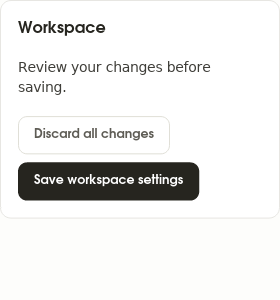
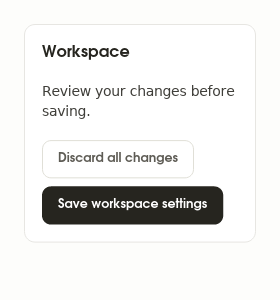
feat(components): provide customizable page insets

diff --git a/examples/showcase/tests/page_insets.rs b/examples/showcase/tests/page_insets.rs
@@ -1,0 +1,1 @@
+ui_lang::include_app!("tests/cases/ui/page_insets.ice");

diff --git a/COVERAGE.md b/COVERAGE.md
@@ -2314,3 +2314,22 @@ makes the wide case fail its same-line assertion (158.35 vs 95.85px). Restored
 source passes both cases with `cargo test -p showcase --test action_layout`.
 This is evidence for the explicit card pattern, not automatic reflow in default
 components or evidence for Dialog.Actions/ButtonGroup; L04 remains open.
+
+## Page viewport-inset defaults
+
+`Page(padding=24.0)` owns ordinary screen/pane outer spacing. The action-card
+fixture now uses Page and asserts viewport insets at 280/640px while retaining
+its label-reflow and keyboard/pointer contracts. Its new left-edge assertion
+fails on the previous flush-to-window view before Page is applied.
+
+`page_insets.ice` separately verifies a 12px inset on all four sides of a filling
+child and Panel's retained 20px inner padding. Explicit zero padding allows a
+filling child to meet all four viewport edges. Hardcoding Page padding to 24
+fails the 12px and zero tests (24 vs 12 and 24 vs 0); removing bottom padding
+fails the filling-child bottom assertion (300 vs 288). Mutations are restored.
+Run `cargo test -p showcase --test action_layout --test page_insets`.
+
+Captures use scale 1, en-US, Linux and reduced motion, and are stored under
+`examples/showcase/screenshots/action-layout` and `page-insets`. This establishes
+explicit Page and Panel geometry, not automatic margins on arbitrary widgets,
+system safe-area handling, or a completed audit of every surface.

diff --git a/crates/ui-lang-components/README.md b/crates/ui-lang-components/README.md
@@ -76,6 +76,30 @@ navigation, unread append counts, and explicit resume. It does not replace
 `MessageScroller`: transcripts retain variable-height measurement, message
 anchors, prepend restoration, and jump-control behavior.
 
+## Page edges and surface padding
+
+Use `Page` once at the root of an ordinary bounded screen or pane. It fills the
+available space, paints the semantic background, and supplies 24px of outer
+padding by default:
+
+```ice
+Page
+  Panel title="Profile"
+    text "Your profile information" @body
+```
+
+`Page(padding=24.0)` accepts one content root. For multiple sections, place a
+`col w=fill gap=16.0` inside it. `Page padding=12.0` provides a denser screen;
+`Page padding=0.0` explicitly permits edge-to-edge content. Children still obey
+the constraints and size policy of their own layouts.
+
+Page owns the distance from the viewport to the content surface. Panel keeps
+its own 20px interior padding; these are different boundaries. Do not add Page
+around every card or nest it around Form, which already owns its outer padding.
+Page does not scroll or choose a readable maximum width. A long ordinary page
+can put one scroll viewport inside Page; Form provides the bounded scrolling
+composition for forms. An intentionally full-bleed region may live outside Page.
+
 ## Form defaults and customization
 
 Import `src/ice/default.ice` and declare a form with application-owned state:

diff --git a/docs/ui-quality-roadmap.md b/docs/ui-quality-roadmap.md
@@ -155,3 +155,16 @@ does **not** close L04. Follow-up work remains:
   This is a planned language contract, not supported syntax or completed layout
   behavior. Existing source inspection confirms that scalar slot codegen is the
   boundary preventing the parent from arranging caller siblings individually.
+
+### L01 follow-up: viewport and surface edge spacing
+
+A user-reported recurring failure is content touching the viewport or its parent
+surface. The action card reproduced the viewport case: text containment passed
+while its left/top edges were at zero. `Page(padding=24.0)` supplies an explicit
+ordinary-screen boundary; the card example uses it and asserts the outer inset.
+A 12px customization test separately checks Panel's retained 20px inner padding;
+an explicit zero-inset test preserves intentional full-bleed composition.
+
+This edge-spacing slice does not close L01's flexible label/input/action-row
+audit. Form already owns outer padding and is not wrapped in Page. Additional
+surface-specific edge defects require their own reproductions.

diff --git a/skills/design-ice-ui/references/design-workflow.md b/skills/design-ice-ui/references/design-workflow.md
@@ -284,3 +284,17 @@ cargo ice check
 Use the live LSP throughout, with the importing app root open. Run the narrow
 behavior test for the primary interaction. Use `cargo ice schema` or the
 language references whenever syntax or property ownership is uncertain.
+
+## Verify the distance to the container edge
+
+For ordinary screen/pane content, start with the default library's `Page`
+(24px outer padding, customizable through its `padding` prop). Use it once at
+that boundary. `Form` already owns outer padding and scrolling; do not wrap it
+in another Page. A deliberately full-bleed surface can opt out explicitly.
+
+Check outer and inner geometry separately: a card's left/top/right/bottom must
+respect the page's inset; labels and controls must respect their containing
+surface's own padding. Containment alone permits a zero-pixel edge gap. Record
+actual distances at narrow and wide sizes, and inspect the image. For scrolling
+content, check the end inset after reaching the last item rather than requiring
+the whole document to fit the initial viewport.

diff --git a/SPEC.md b/SPEC.md
@@ -1628,3 +1628,13 @@ Tree factories return `ui_lang_guest::EditorBinding<Payload>`; Native factories
 retain the native Iced key-binding signature. The authored route still receives
 its declared `Payload`. See [the transaction contract](docs/editor-transactions.md)
 for admission, ordering, cancellation and guest-owned history.
+
+## Default page insets
+
+The standard component library exports `Page(padding:f64=24.0)`. Page fills its
+available bounds, uses the semantic background, and insets one content root on
+all four sides. Padding is customizable, including explicit zero for full-bleed
+content. Page does not own scrolling or maximum content width. Form already
+provides its own outer padding and should not be nested inside Page merely to
+obtain a screen inset. This is ordinary library composition, not implicit margin
+on every widget or a new Core construct.

diff --git a/README.md b/README.md
@@ -788,3 +788,7 @@ The [UI quality worklist](docs/ui-quality-roadmap.md) tracks default composition
 layout robustness and customization evidence separately from widget/API coverage.
 It records acceptance scenarios and focused deliveries rather than treating a
 shipped component as proof of every screen-level behavior.
+
+For ordinary screen content, the default library's `Page` supplies a customizable
+24px outer inset. Surface components retain their own interior padding; Form
+already owns its screen padding. See the [page and surface guidance](crates/ui-lang-components/README.md#page-edges-and-surface-padding).
